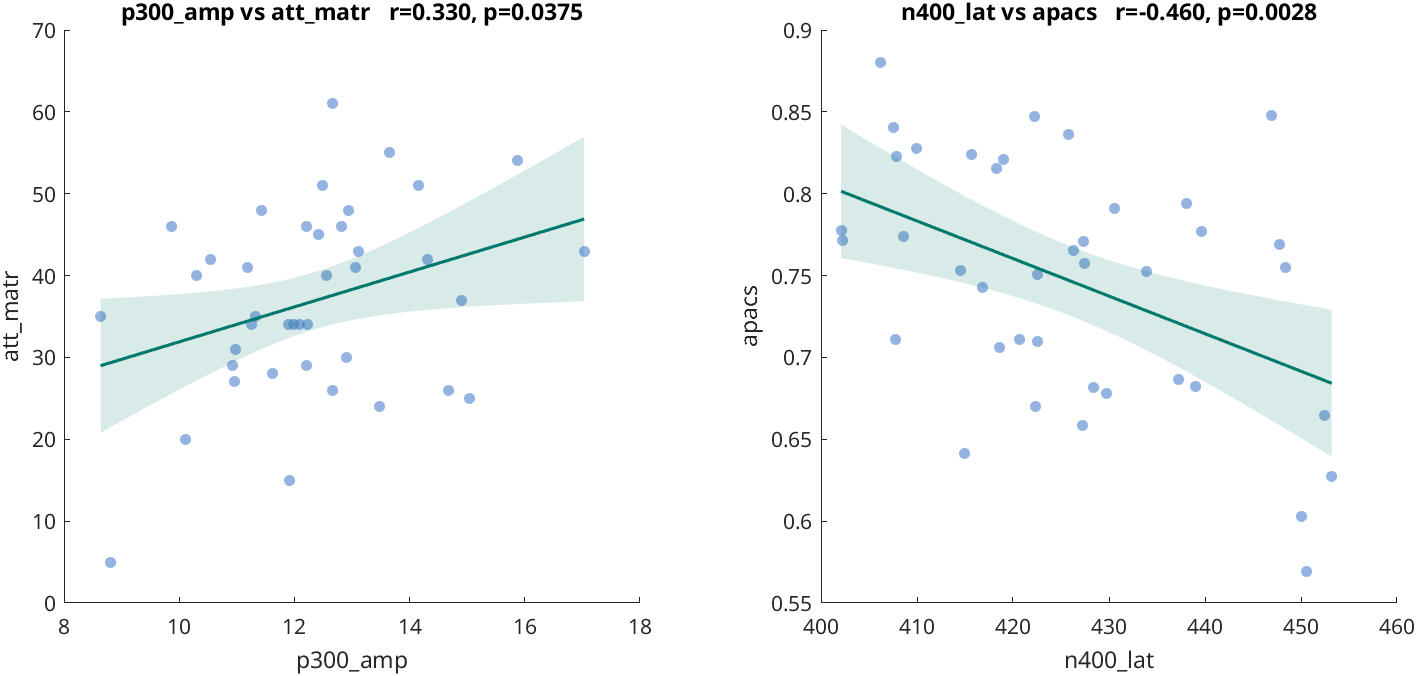
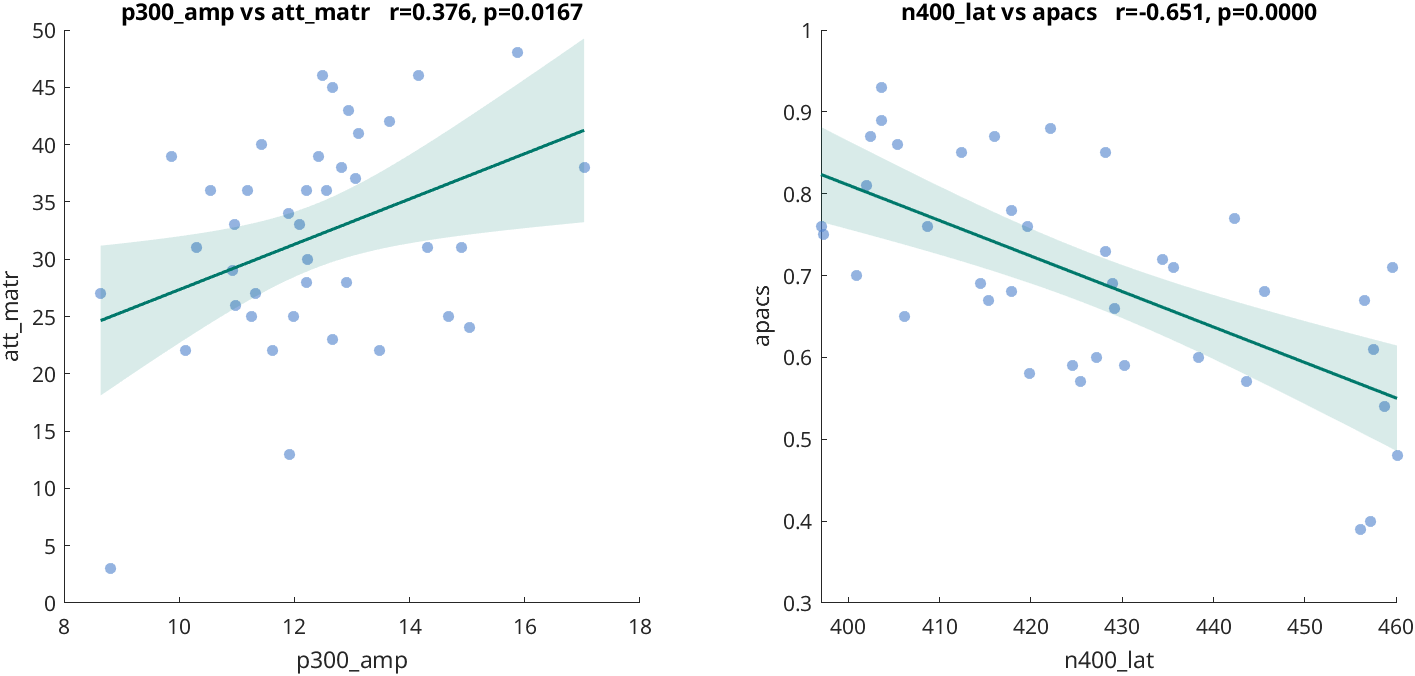
matlab code

diff --git a/matlab/case1/code/CaseStudy_1.m b/matlab/case1/code/CaseStudy_1.m
@@ -161,8 +161,8 @@ for i = 1:numel(vars)
   histogram(v, 10);
   hold on;
   yl = ylim();
-  plot([mean(v) mean(v)], yl, "r--", "LineWidth", 1.2);
-  plot([median(v) median(v)], yl, "g:", "LineWidth", 1.2);
+  plot([mean(v, "omitnan") mean(v, "omitnan")], yl, "r--", "LineWidth", 1.2);
+  plot([median(v, "omitnan") median(v, "omitnan")], yl, "g:", "LineWidth", 1.2);
   title(sprintf("%s (n=%d)", col, numel(v)), "Interpreter", "none");
   xlabel(col, "Interpreter", "none"); ylabel("Frequency");
 
@@ -179,7 +179,7 @@ for i = 1:numel(vars)
   test_used = "Shapiro-Wilk";
   if kurtosis(v) > 3; test_used = "Shapiro-Francia"; end
   fprintf("  %-10s: n=%d, mean=%.2f, SD=%.2f, W=%.4f, p=%.4f, skew=%.3f, kurt=%.3f (%s)\n", ...
-          col, numel(v), mean(v), std(v), W, p, skewness(v), kurtosis(v) - 3, test_used);
+          col, numel(v), mean(v, "omitnan"), std(v, "omitnan"), W, p, skewness(v), kurtosis(v) - 3, test_used);
 end
 
 % What do we see in the plot?
@@ -196,13 +196,15 @@ end
 %% 1.5 Outlier detection
 % Flag values beyond +-3 standard deviations.
 
+out_mask = false(n_subj, numel(vars));
 fprintf("Outliers (+-3 SD):\n");
 found_any = false;
 for i = 1:numel(vars)
   col = vars{i};
   v = df.(col);
-  z = (v - mean(v)) / std(v);
+  z = (v - mean(v, "omitnan")) / std(v, "omitnan");
   flagged = find(abs(z) > 3);
+  out_mask(flagged, i) = true;
   if ~isempty(flagged)
     found_any = true;
     fprintf("  %s: rows %s\n", col, mat2str(flagged'));
@@ -214,6 +216,32 @@ end
 if ~found_any
   fprintf("  None detected.\n");
 end
+
+%% 1.6 Cleaning dataset
+% Let's remove the missing data and the outliers.
+%
+% There are three outliers that are not plausible data: Age 150, N400
+% Amplitude 25 uV, P300 latency 900ms. We will remove these subjects.
+%
+% However the value of 3 for attentive matrices is very low but it is
+% also very plausible in a patient dataset, therefore we will keep this
+% outlier.
+
+missing_mask = any(miss_mat, 2);
+
+% Outliers: exclude only the implausible ones found in Section 1.5 - keep
+% the att_matr outlier, since it is a plausible (if low) clinical value
+implausible_cols = {'age', 'n400_amp', 'p300_lat'};
+[~, implausible_idx] = ismember(implausible_cols, vars);
+outlier_mask = any(out_mask(:, implausible_idx), 2);
+
+exclude_mask = missing_mask | outlier_mask;
+fprintf("Excluding %d participants:\n", sum(exclude_mask));
+disp(df(exclude_mask, [{'subject_id'}, vars]));
+
+df = df(~exclude_mask, :);
+n_subj = height(df);
+fprintf("\nRemaining: %d participants\n", n_subj);
 
 %% 2. Analysis
 %% 2.1 Descriptive statistics (Table 1)
